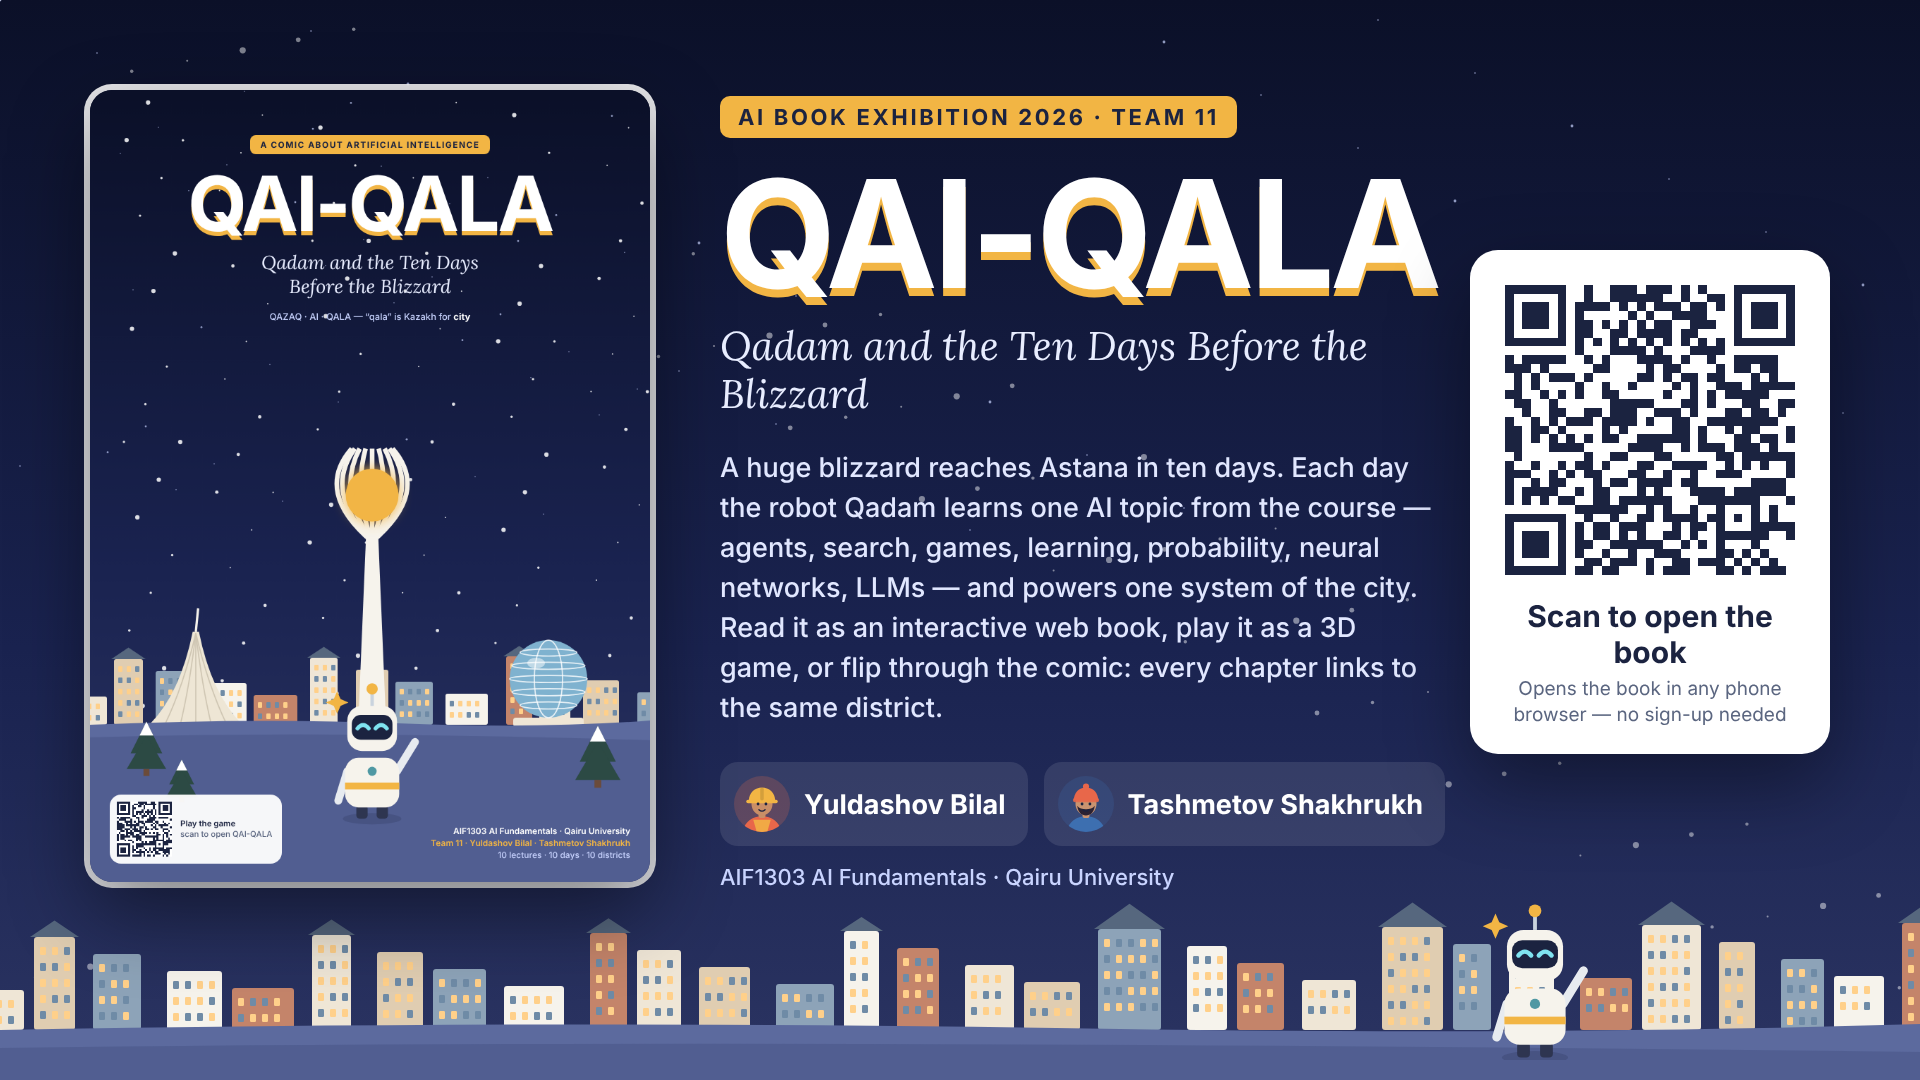
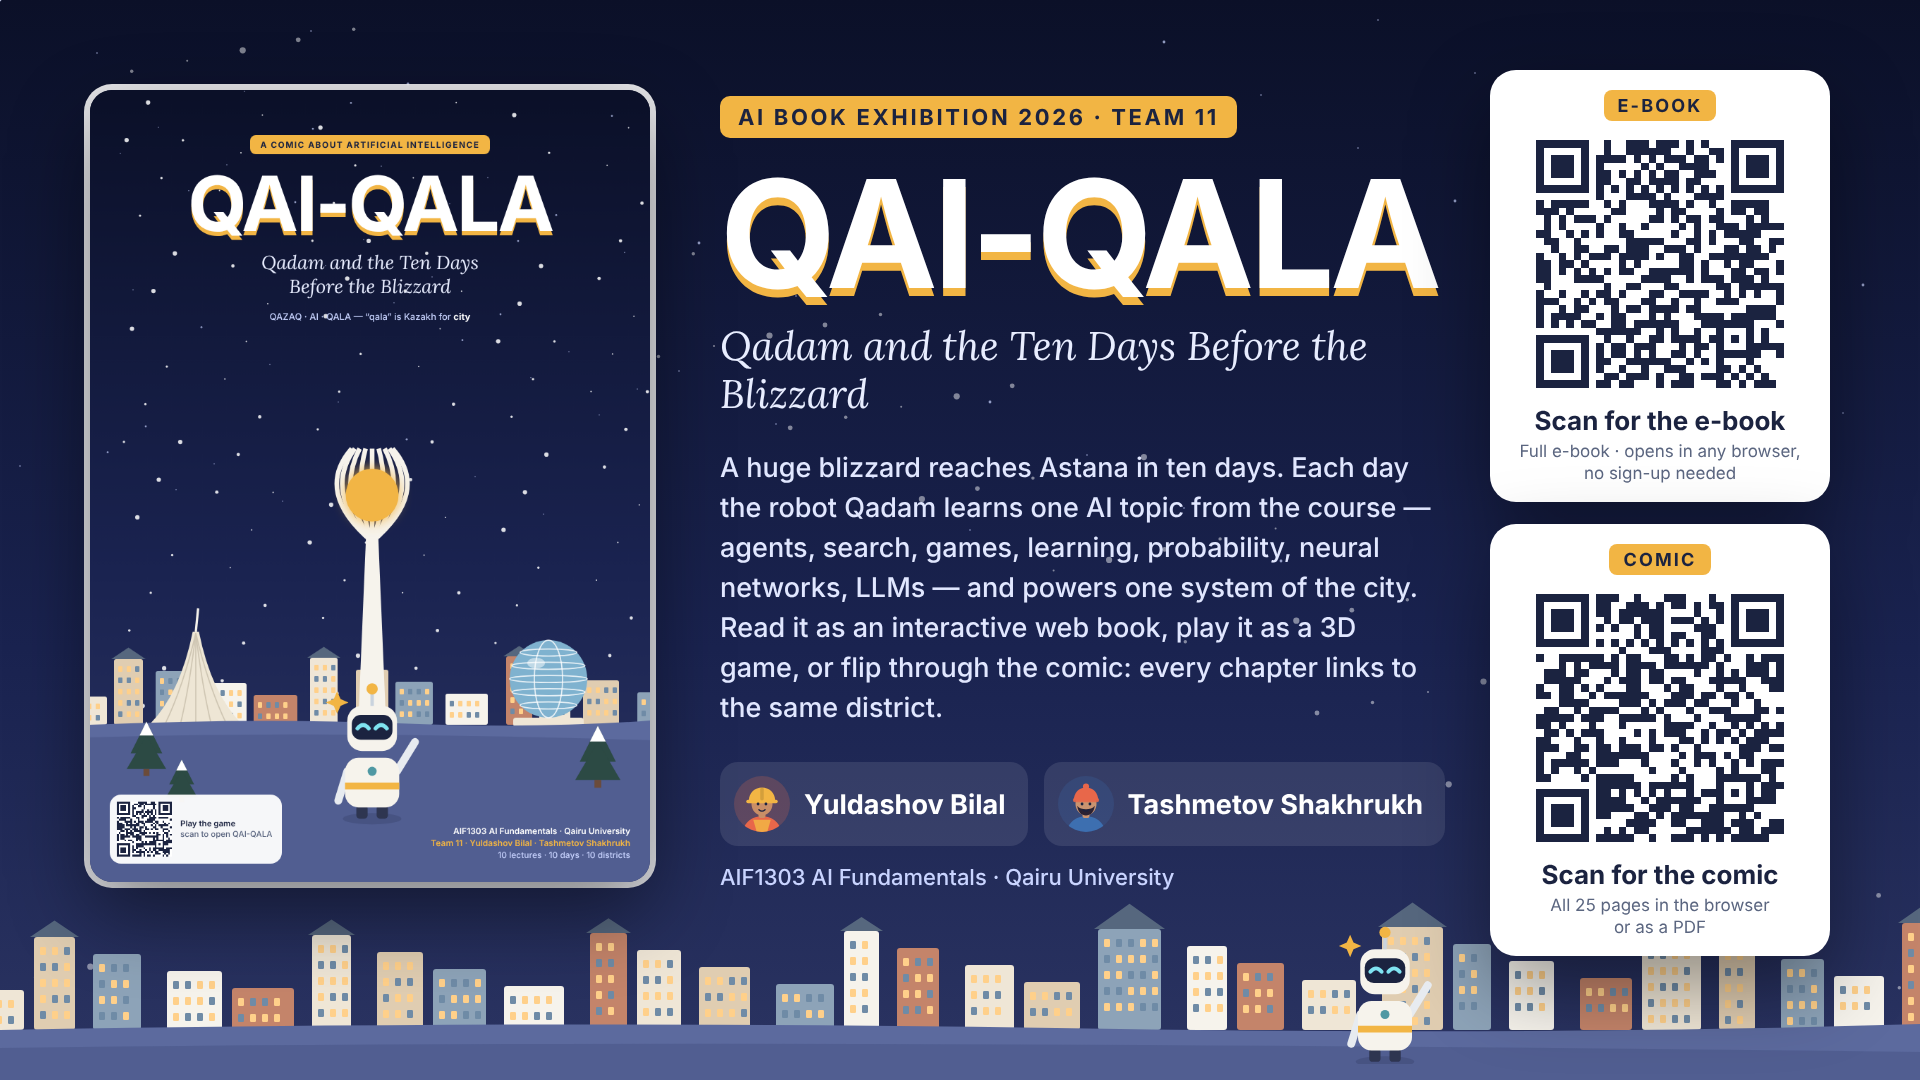
Presentation card: two QR codes, e-book and comic
Claude-Session: https://claude.ai/code/session_01LNvgv1qyNtwvidPT6vchZk

Changed region(s): [[0.6875, 0.0611, 0.9688, 0.9778]]

diff --git a/poster.html b/poster.html
@@ -34,7 +34,7 @@ main{max-width:1200px;margin:0 auto;padding:20px 12px 40px}
   <div class="info">
     <h2>QAI-QALA: Qadam builds a smart city</h2>
     <p>AIF1303 AI Fundamentals endterm · Team 11 · Yuldashov Bilal, Tashmetov Shakhrukh · Qairu University.</p>
-    <p>The QR code opens the full e-book directly, with no login and no access request.</p>
+    <p>Two QR codes: the top one opens the full e-book, the bottom one opens the comic. Both open directly, with no login and no access request.</p>
     <div class="row">
       <a class="btn" href="./#book">Open the e-book</a>
       <a class="btn" href="comic.html">Read the comic</a>
